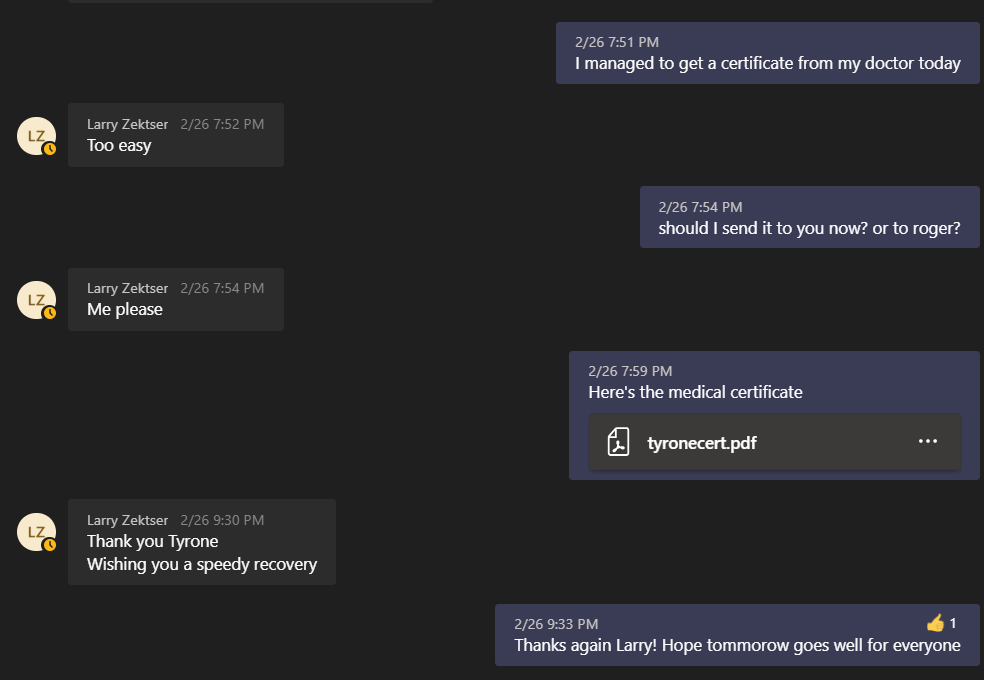
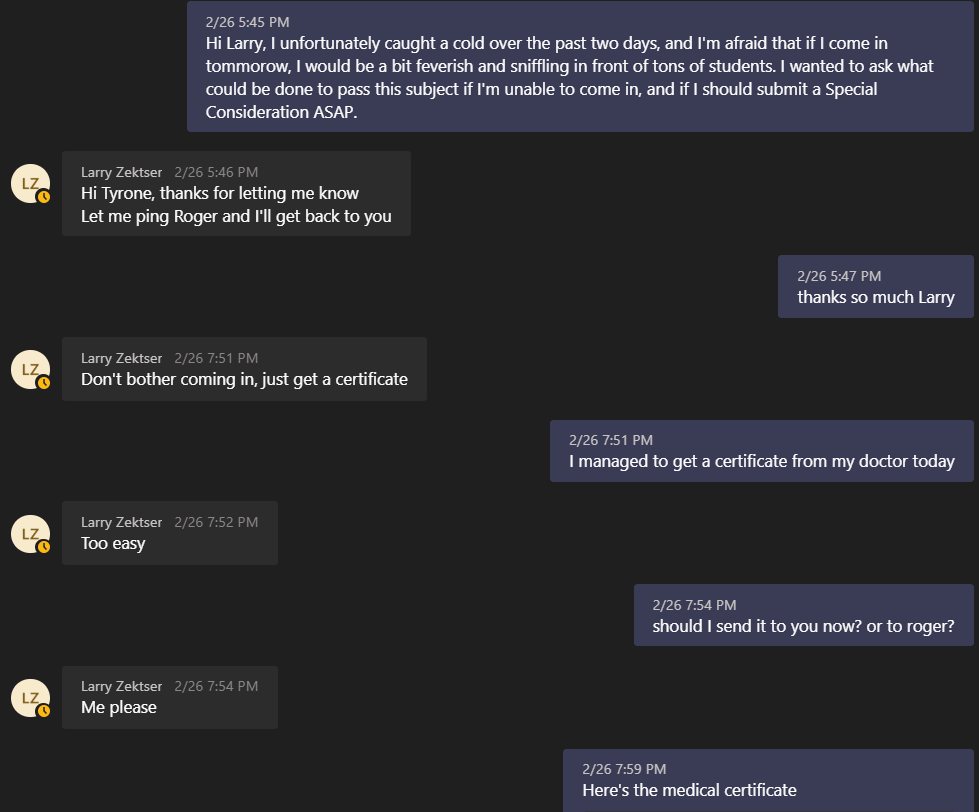
61

diff --git a/content/week6.md b/content/week6.md
@@ -20,6 +20,9 @@ We were ready to begin work on our respective boxes positively and smoothly orga
 
 I began to work on the box Traversec on HacktheBox (which caught me off guard as it began slightly differently to OpenAdmin), and joined a group with Hayden, Dylan and Nick to present upon the box we'd completed last week (OpenAdmin) for the showcase. We assigned portions of the pentesting process to cover from the '3 Es' (Enumeration, Exploitation and Escalation) to even the workload amongst members and agreed to meet again on Tuesday to lock down everything for the presentation.
 
+![alt text](https://raw.githubusercontent.com/friedchicken1/summer-studio/master/data/img/6/script.png)
+#### Above: Script for Enumeration portion of presentation
+
 I and other group members had been previously been informed by our tutors of the nature of the showcase; of how our onlookers would be constantly coming and going, and were people with varying levels of knowledge of pentesting. 
 
 Our audience wouldn't typically be predisposed to long conversations about how the box worked in detail, in fact the opposite - they would likely be overwhelmed by a lot of information if they weren't familiar with the subject. We had to capture their attention and show them something interesting before they moved on with their day!
@@ -32,7 +35,10 @@ However, it was decided soon after the meeting that Hayden, who had the most exp
 
 However, during the meeting, I'd begun to develop a quite bad sniffle, and felt increasingly cold despite warm temperatures on the day. I'd originally planned to attend the Sectalks Ninja Night event that night - a Capture the Flag event periodically hosted at Google - but I felt like I was in no condition to attend after our group meeting. While I'd RSVPED over a week prior, I sadly cancelled it before heading home early.
 
-I found by the next day that the sniffles had developed into a cold, and I was especially sick and feverish for the mext two days. I had some difficulty working on my part for the presentation and Traversec challenge, due to some headaches and constant sniffling. Before the end of Wednesday, I'd gone for a checkup with my local GP where I was diagnosed with a common cold. I was able to obtain a medical certificate and would be able to recover from home until later that week - but this meant that I would be unable to attend the Summer Studio Showcase.
+I found by the next day that the sniffles had developed into a cold, and I was especially sick and feverish for the next two days. I had some difficulty working on my part for the presentation and Traversec challenge due to some headaches and constant sniffling. Before the end of Wednesday, I'd gone for a checkup with my local GP where I was diagnosed with a common cold. I was able to obtain a medical certificate and contacted my tutor Larry on whether I should still attend the Showcase.
+![alt text](https://raw.githubusercontent.com/friedchicken1/summer-studio/master/data/img/6/medical%20cert.png)
+
+ would be able to recover from home until later that week - but this meant that I would be unable to attend the Summer Studio Showcase.
 
 While devastated that I would not be able to attend what felt like the natural conclusion of my Summer Studio experience, I did my best to contribute to my group's preparation as best as I still could. On Wednesday night, I attended the group's final Discord call before the day, and contributed by creating and writing content for our group's slides on Canva.
 

diff --git a/content/portfolio.md b/content/portfolio.md
@@ -4,3 +4,7 @@ date: 2020-03-02T14:04:27+11:00
 draft: false
 dropCap: false
 ---
+happy with comradeship, support of tutors
+learned a lot in 6 weeks
+boxes were interesting and fun to do
+given every opportunity to succeed
